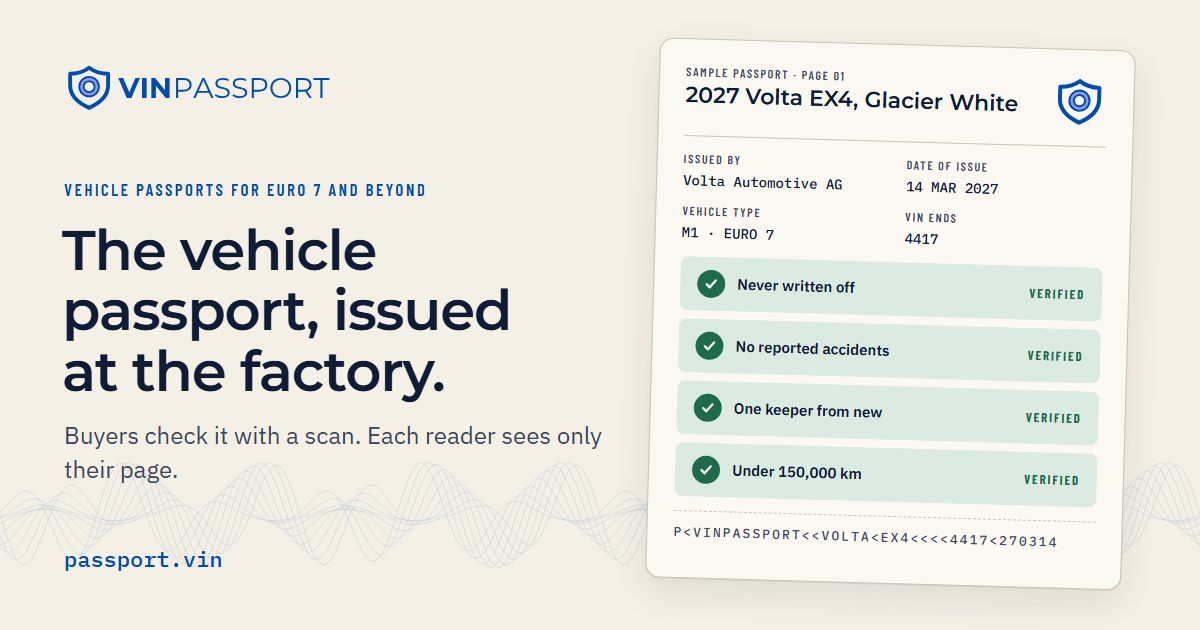
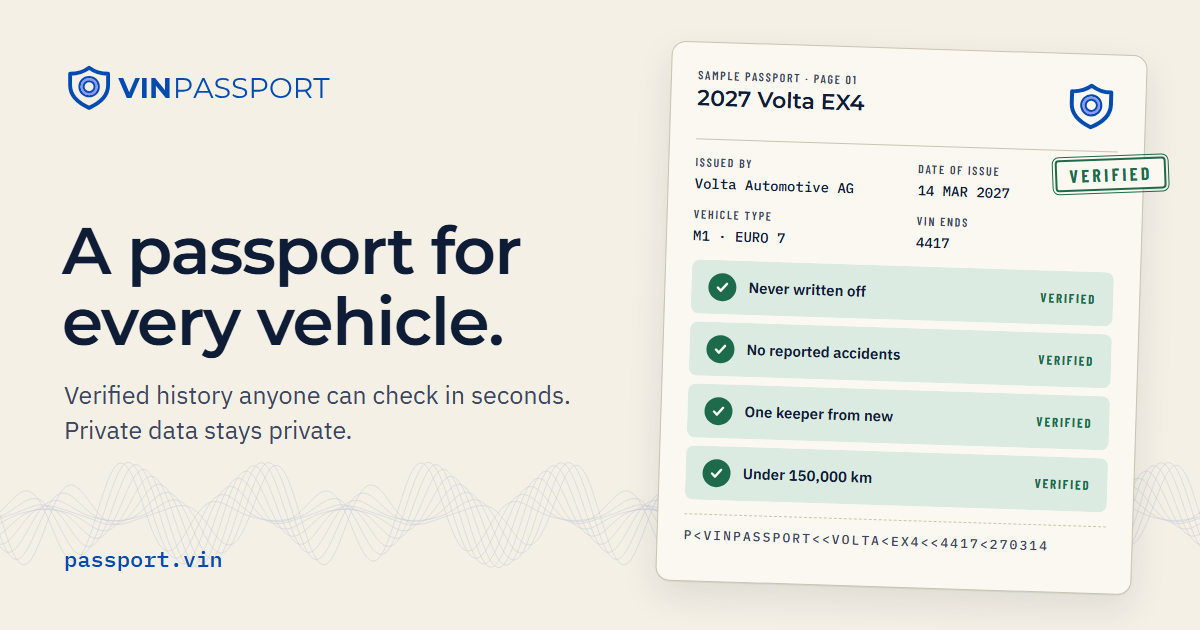
Home link preview to the chosen design, Preview grant on the deck, deploy badge
The home link preview (shared by six pages) now carries the brand line
"A passport for every vehicle." beside the sample passport, rendered from
design/og/og-home.html.

Deck slides 4 and 13 cite the disclosure grant in the live contract on
Preview (block 29425, 9 Nov) beside preprod's, and check:facts fails if any
page or slide cites a Preview grant block other than the recorded run's
(site/disclose/preview/run.json), in the contract deploy/preview.json names.

The README adds the site deploy badge beside CI and Reproducible build.

diff --git a/design/og/og-home.html b/design/og/og-home.html
@@ -1,9 +1,9 @@
 <!doctype html>
 <!--
   Link-preview image for the home page and the pages that share it (1200 x 630), rendered by
-  scripts/build-og.mjs to site/og/og-home.png. The headline is the home page's h1, and the card is
-  the home hero's sample passport, line for line. It carries no stamp: /v/ shares this picture,
-  and a preview must not show a result the linked passport may not have.
+  scripts/build-og.mjs to site/og/og-home.png. The design MJ chose on 11 Nov 2026: the brand line
+  "A passport for every vehicle." beside the home hero's sample passport (labelled a sample, so
+  the Verified stamp vouches for no real vehicle).
   Change a word here, then run: node scripts/build-og.mjs og-home
   SPDX-License-Identifier: Apache-2.0
 -->
@@ -13,6 +13,13 @@
 <title>og-home</title>
 <link rel="stylesheet" href="../../site/assets/vp.css">
 <link rel="stylesheet" href="og.css">
+<style>
+  .og .title { font-size: 66px; line-height: 1.08; }
+  .og .words { gap: 20px; }
+  .og .lede { font-size: 25px; }
+  .og .card-at { left: 672px; }
+  .og .card-at.tilt { transform: rotate(1.8deg); }
+</style>
 </head>
 <body>
 <div class="og">
@@ -20,18 +27,18 @@
   <div class="side">
     <img class="logo" src="../../site/assets/brand/vinpassport-logo-horizontal-primary.svg" alt="VINPassport">
     <div class="words">
-      <div class="eyebrow">Vehicle passports for Euro 7 and beyond</div>
-      <h1 class="title">The vehicle passport, issued at the factory.</h1>
-      <p class="lede">Buyers check it with a scan. Each reader sees only their page.</p>
+      <h1 class="title">A passport for every vehicle.</h1>
+      <p class="lede">Verified history anyone can check in seconds. Private data stays private.</p>
     </div>
     <div class="url">passport.vin</div>
   </div>
-  <div class="card-at tilt">
+  <div class="card-at tilt" style="top: 48px;">
+    <span class="vp-stamp vp-stamp--verified stamp-at" style="top: 104px;">Verified</span>
     <div class="vp-datapage">
       <div class="vp-datapage__head">
         <div>
           <div class="vp-label">Sample passport · Page 01</div>
-          <p class="vp-datapage__title">2027 Volta EX4, Glacier White</p>
+          <p class="vp-datapage__title">2027 Volta EX4</p>
         </div>
         <img src="../../site/assets/brand/vinpassport-icon-primary.svg" alt="" style="flex: none;">
       </div>
@@ -47,7 +54,7 @@
         <li class="vp-verdict vp-verdict--verified"><span class="vp-verdict__icon"><svg viewBox="0 0 16 16" aria-hidden="true"><path d="M3.5 8.5l3 3 6-7"></path></svg></span><span class="vp-verdict__q">One keeper from new</span><span class="vp-verdict__state">Verified</span></li>
         <li class="vp-verdict vp-verdict--verified"><span class="vp-verdict__icon"><svg viewBox="0 0 16 16" aria-hidden="true"><path d="M3.5 8.5l3 3 6-7"></path></svg></span><span class="vp-verdict__q">Under 150,000&nbsp;km</span><span class="vp-verdict__state">Verified</span></li>
       </ul>
-      <div class="vp-mrz" aria-hidden="true" style="margin-top: 14px;">P&lt;VINPASSPORT&lt;&lt;VOLTA&lt;EX4&lt;&lt;&lt;&lt;4417&lt;270314</div>
+      <div class="vp-mrz" aria-hidden="true" style="margin-top: 14px;">P&lt;VINPASSPORT&lt;&lt;VOLTA&lt;EX4&lt;&lt;4417&lt;270314</div>
     </div>
   </div>
 </div>

diff --git a/deck/index.html b/deck/index.html
@@ -232,7 +232,7 @@ th { color: var(--ink); font-family: var(--font-label); font-weight: 600; font-s
     <div class="box">
       <h3>On chain</h3>
       <ol>
-        <li><strong>Who may see what is on the ledger.</strong> New circuits <code>grantDisclosure</code> and <code>revokeDisclosure</code> record which identity was given which view. On preprod from 1 Nov 2026 (block 3228852); a dealership was granted the trade view in block 3229987, read back from the public indexer.</li>
+        <li><strong>Who may see what is on the ledger.</strong> New circuits <code>grantDisclosure</code> and <code>revokeDisclosure</code> record which identity was given which view. On preprod from 1 Nov 2026 (block 3228852), where a dealership was granted the trade view in block 3229987. The same grant is in the live contract on Preview on 9 Nov (block 29425). Both read back from the public indexer.</li>
         <li><strong>Ledger 9.</strong> Ported to Compact 0.36.0, Midnight.js 5 and Wallet SDK 2, reproducing every hash and commitment of the old build (13 of 13 golden vectors). <strong>Live on Preview since 9 Nov 2026, block 28785.</strong></li>
         <li><strong>Events.</strong> Every write announces itself once, and the public indexer serves it.</li>
         <li><strong>Registrar governance.</strong> Two current registrars add or remove one, each in their own transaction: exercised in blocks 29162 and 29247.</li>
@@ -526,7 +526,7 @@ th { color: var(--ink); font-family: var(--font-label); font-weight: 600; font-s
   <h2>Each wave states its delta in advance, and reports it after</h2>
   <table style="flex:1">
     <tr><th style="width:150px">Wave 3<br><span style="font-weight:400;opacity:.7">planned, shipped</span></th>
-        <td><strong>Tiered disclosure, the Wave 2 deferral</strong>: a tier on all 68 fields, bundles a buyer, a dealer and an authority each check against the ledger, live at passport.vin/disclose/; disclosure grants in the contract, granted on preprod on 1 Nov and read back from the indexer</td></tr>
+        <td><strong>Tiered disclosure, the Wave 2 deferral</strong>: a tier on all 68 fields, bundles a buyer, a dealer and an authority each check against the ledger, live at passport.vin/disclose/; disclosure grants in the contract, granted on preprod on 1 Nov (block 3229987) and on Preview on 9 Nov (block 29425), both read back from the indexer</td></tr>
     <tr><th>Wave 3<br><span style="font-weight:400;opacity:.7">beyond the plan</span></th>
         <td><strong>Ledger 9</strong>, live on Preview since 9 Nov with events, two-registrar governance and upgrades by a 2-of-3 committee; CI that reproduces the verifier keys; a new site with typed passport codes, every date cited and lifestyle vehicles</td></tr>
     <tr><th>Wave 3<br><span style="font-weight:400;opacity:.7">not done</span></th>

diff --git a/README.md b/README.md
@@ -11,6 +11,7 @@
   <p>
     <a href="https://github.com/VINPassport/VINPassport/actions/workflows/ci.yml"><img src="https://github.com/VINPassport/VINPassport/actions/workflows/ci.yml/badge.svg" alt="CI"/></a>
     <a href="https://github.com/VINPassport/VINPassport/actions/workflows/compile.yml"><img src="https://github.com/VINPassport/VINPassport/actions/workflows/compile.yml/badge.svg" alt="Reproducible build"/></a>
+    <a href="https://github.com/VINPassport/VINPassport/actions/workflows/pages.yml"><img src="https://github.com/VINPassport/VINPassport/actions/workflows/pages.yml/badge.svg" alt="Site deploy"/></a>
   </p>
 </div>
 
